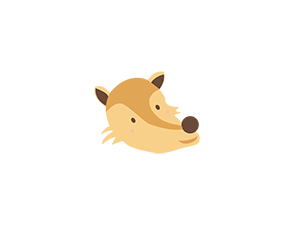
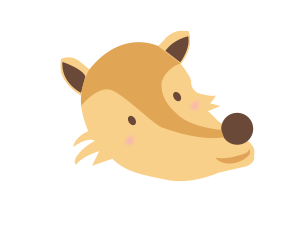
update

Changed region(s): [[0.18, 0.1207, 0.87, 0.7845]]

diff --git a/sketch2.js b/sketch2.js
@@ -8,18 +8,19 @@ function preload() {
 function setup() {
   createCanvas(800, 800);
   let a = createA('pagethree.html', 'Next Page');
+  a.position(200,40);
   textFont(`Barriecito`);
   background('#C6E1AC');
-  textSize(20);
+  textSize(30);
   fill('#EE7179');
-  text("I don’t know how this whole Big Bad Wolf thing got started,", 60,     288);
+  text("I don’t know how this whole Big Bad Wolf thing got started,", 60, 288);
 }
 
 function draw() {
-  image(img, 150, 85);
+  image(img, 240, 50);
   fill(value);
   //textFont(`Barriecito`);
-  textSize(20);
+  textSize(40);
   // text("I don’t know how this whole Big Bad Wolf thing got started,", 60,     288);
 }
 
@@ -33,6 +34,6 @@ function keyTyped() {
   } else if (key === 'f') {
     value = 0;
   }
-  textSize(65);
-  text("but it’s all wrong.", 70, 350);
+  textSize(110);
+  text("but it’s all wrong.", 50, 380);
 }

diff --git a/sketch5.js b/sketch5.js
@@ -1,0 +1,39 @@
+let img;
+
+function setup() {
+  createCanvas(800, 800);
+  let a = createA('pagesix.html', 'Next Page');
+  a.position(200,40);
+}
+
+
+function preload() {
+  img = loadImage('wolf1.png');
+}
+
+
+function draw() {
+  background('#C6E1AC');
+  //text("X: "+mouseX, 0, height/4);
+  //text("Y: "+mouseY, 0, height/2);
+  texts();
+  fill('#EE7179');
+  textFont(`Barriecito`);
+  textSize(40);
+  mouseClicked();
+  
+}
+
+function texts() {
+  text("I didn’t want to just walk into someone", 100, 200);
+  text("else’s house. So I called", 200, 250);
+  image(img, 280, 250);
+  text("“Little Pig, Little Pig, are you in?”", 150, 520);
+
+}
+
+function mouseClicked() {
+  if (mouseX < 470) {
+    background('#C6E1AC');
+  }
+}

diff --git a/pagesix.html b/pagesix.html
@@ -1,0 +1,16 @@
+<!DOCTYPE html>
+<html lang="en">
+  <head>
+    <script src="https://cdnjs.cloudflare.com/ajax/libs/p5.js/1.9.1/p5.js"></script>
+    <script src="https://cdnjs.cloudflare.com/ajax/libs/p5.js/1.9.1/addons/p5.sound.min.js"></script>
+    <link rel="stylesheet" type="text/css" href="style.css">
+    <meta charset="utf-8" />
+    <title>The Three Little Pigs</title>
+  </head>
+  <body>
+    <main>
+        <h1>Type Pig</h1>
+    </main>
+    <script src="sketch6.js"></script>
+  </body>
+</html>

diff --git a/sketch3.js b/sketch3.js
@@ -12,6 +12,7 @@ function preload() {
 function setup() {
   createCanvas(600, 600);
   let a = createA('pagefour.html', 'Next Page');
+  a.position(200,40);
 }
 
 function draw() {
@@ -31,7 +32,7 @@ function typeWriter() {
 		index = index + 1;
 		last = millis();
 	}
-  image(img, 150, 85);
+  image(img, 150, 40);
 
 }
 

diff --git a/sketch.js b/sketch.js
@@ -10,7 +10,7 @@ var last = 0;
 function preload() {
   img = loadImage('wolf1.png');
   let a = createA('pagetwo.html', 'Next Page');
-
+  a.position(200,40);
 }
 
 function setup() {
@@ -39,7 +39,7 @@ function typeWriter() {
 		// }
 		last = millis();
 	}
-  image(img, 150, 85);
+  image(img, 225, 110);
 
 }
 

diff --git a/sketch4.js b/sketch4.js
@@ -14,6 +14,7 @@ function preload() {
   img2 = loadImage('sugar.png');
   bubble = loadImage('pig2.png');
   let a = createA('pagefive.html', 'Next Page');
+  a.position(200,40);
 }
 
 function draw() {

diff --git a/style.css b/style.css
@@ -25,6 +25,7 @@ canvas {
 a {
   font-family: "Barriecito", system-ui;
   margin-left: 70rem;
+  margin-bottom: 90rem;
   text-decoration: none;
   color:#EE7179;
 }
